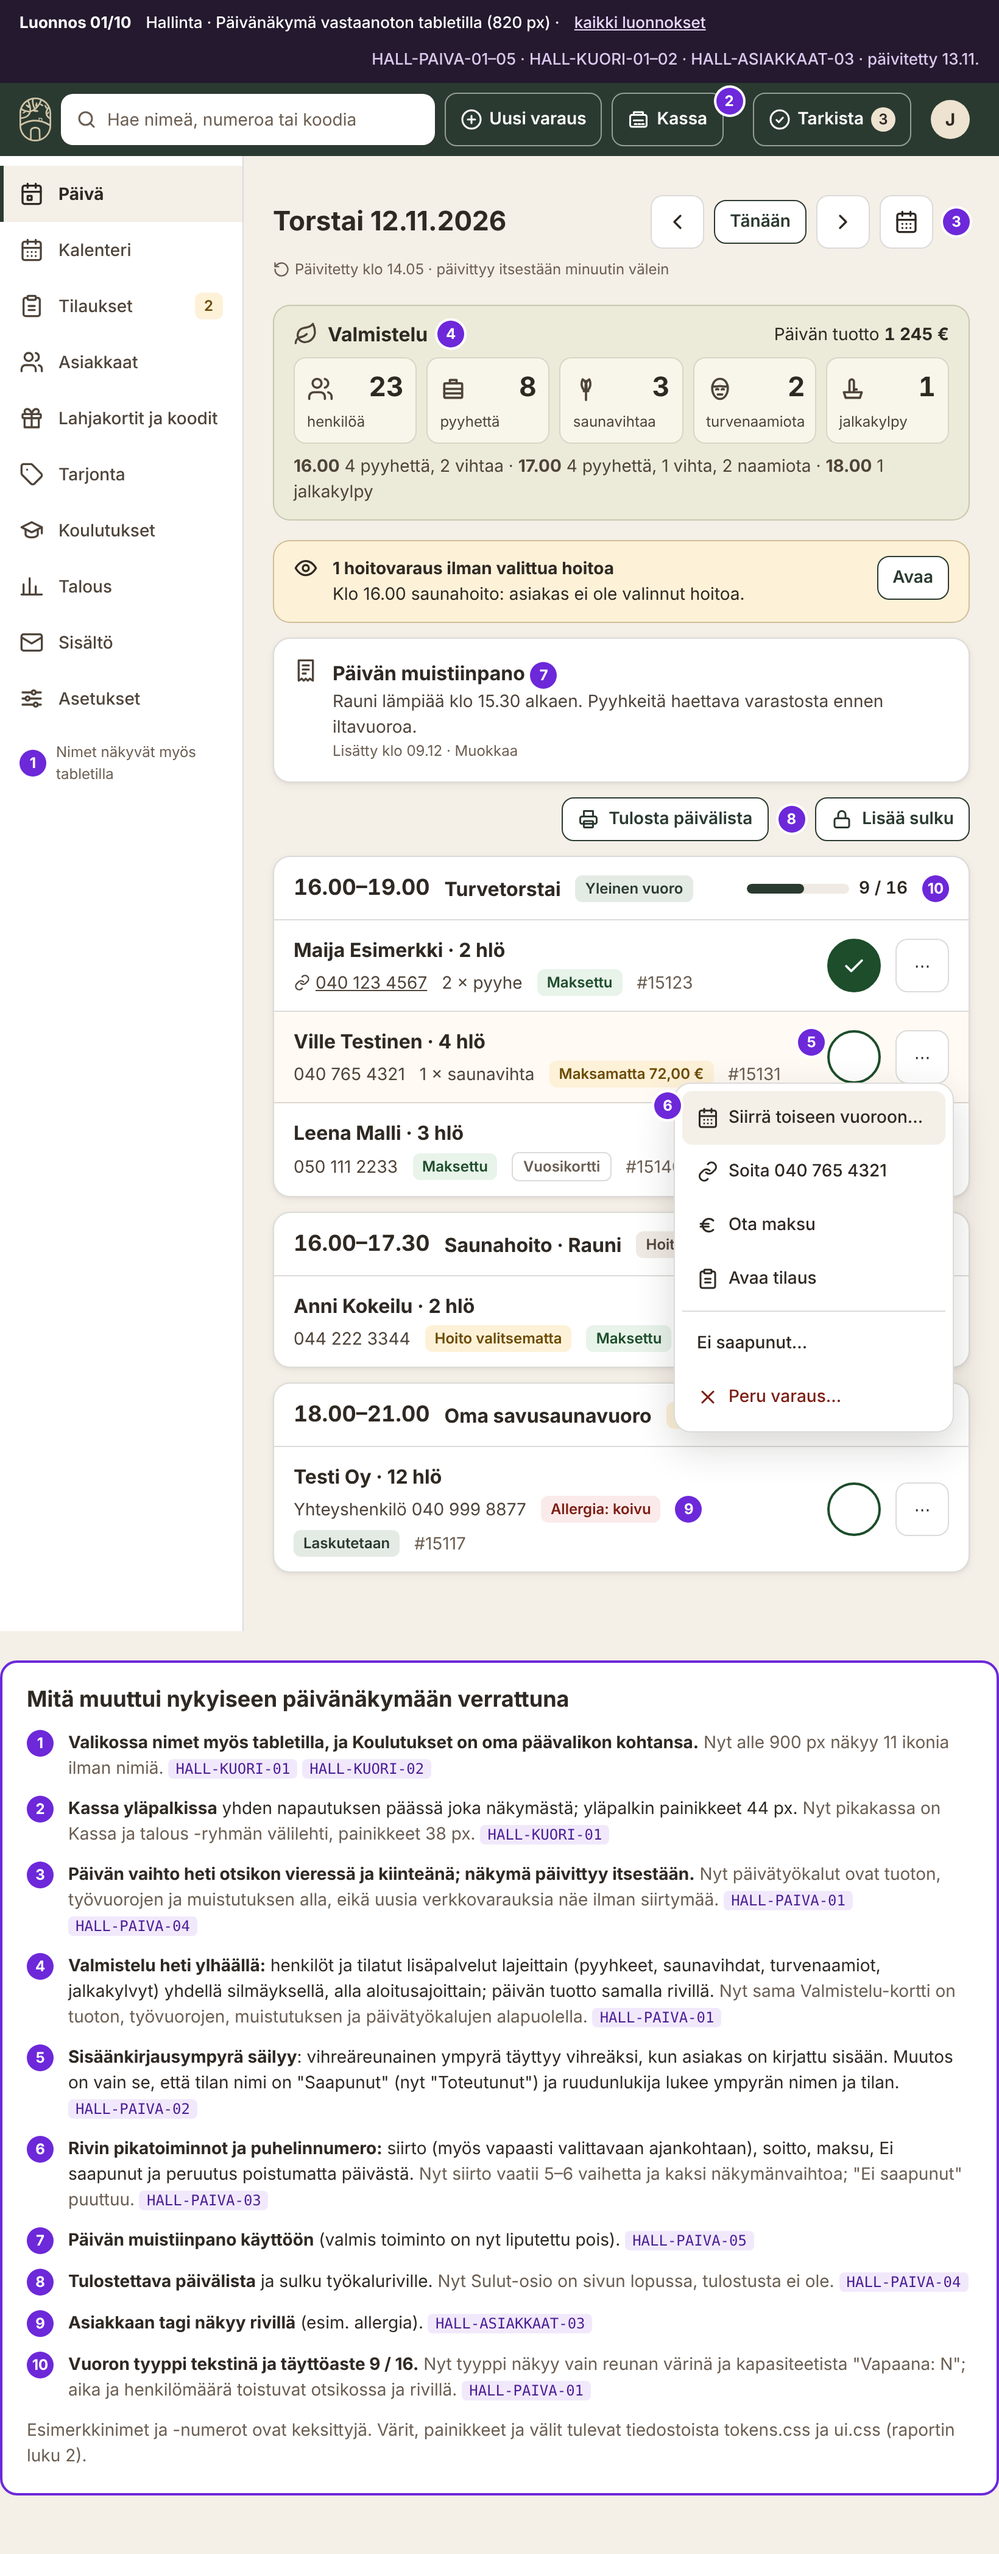
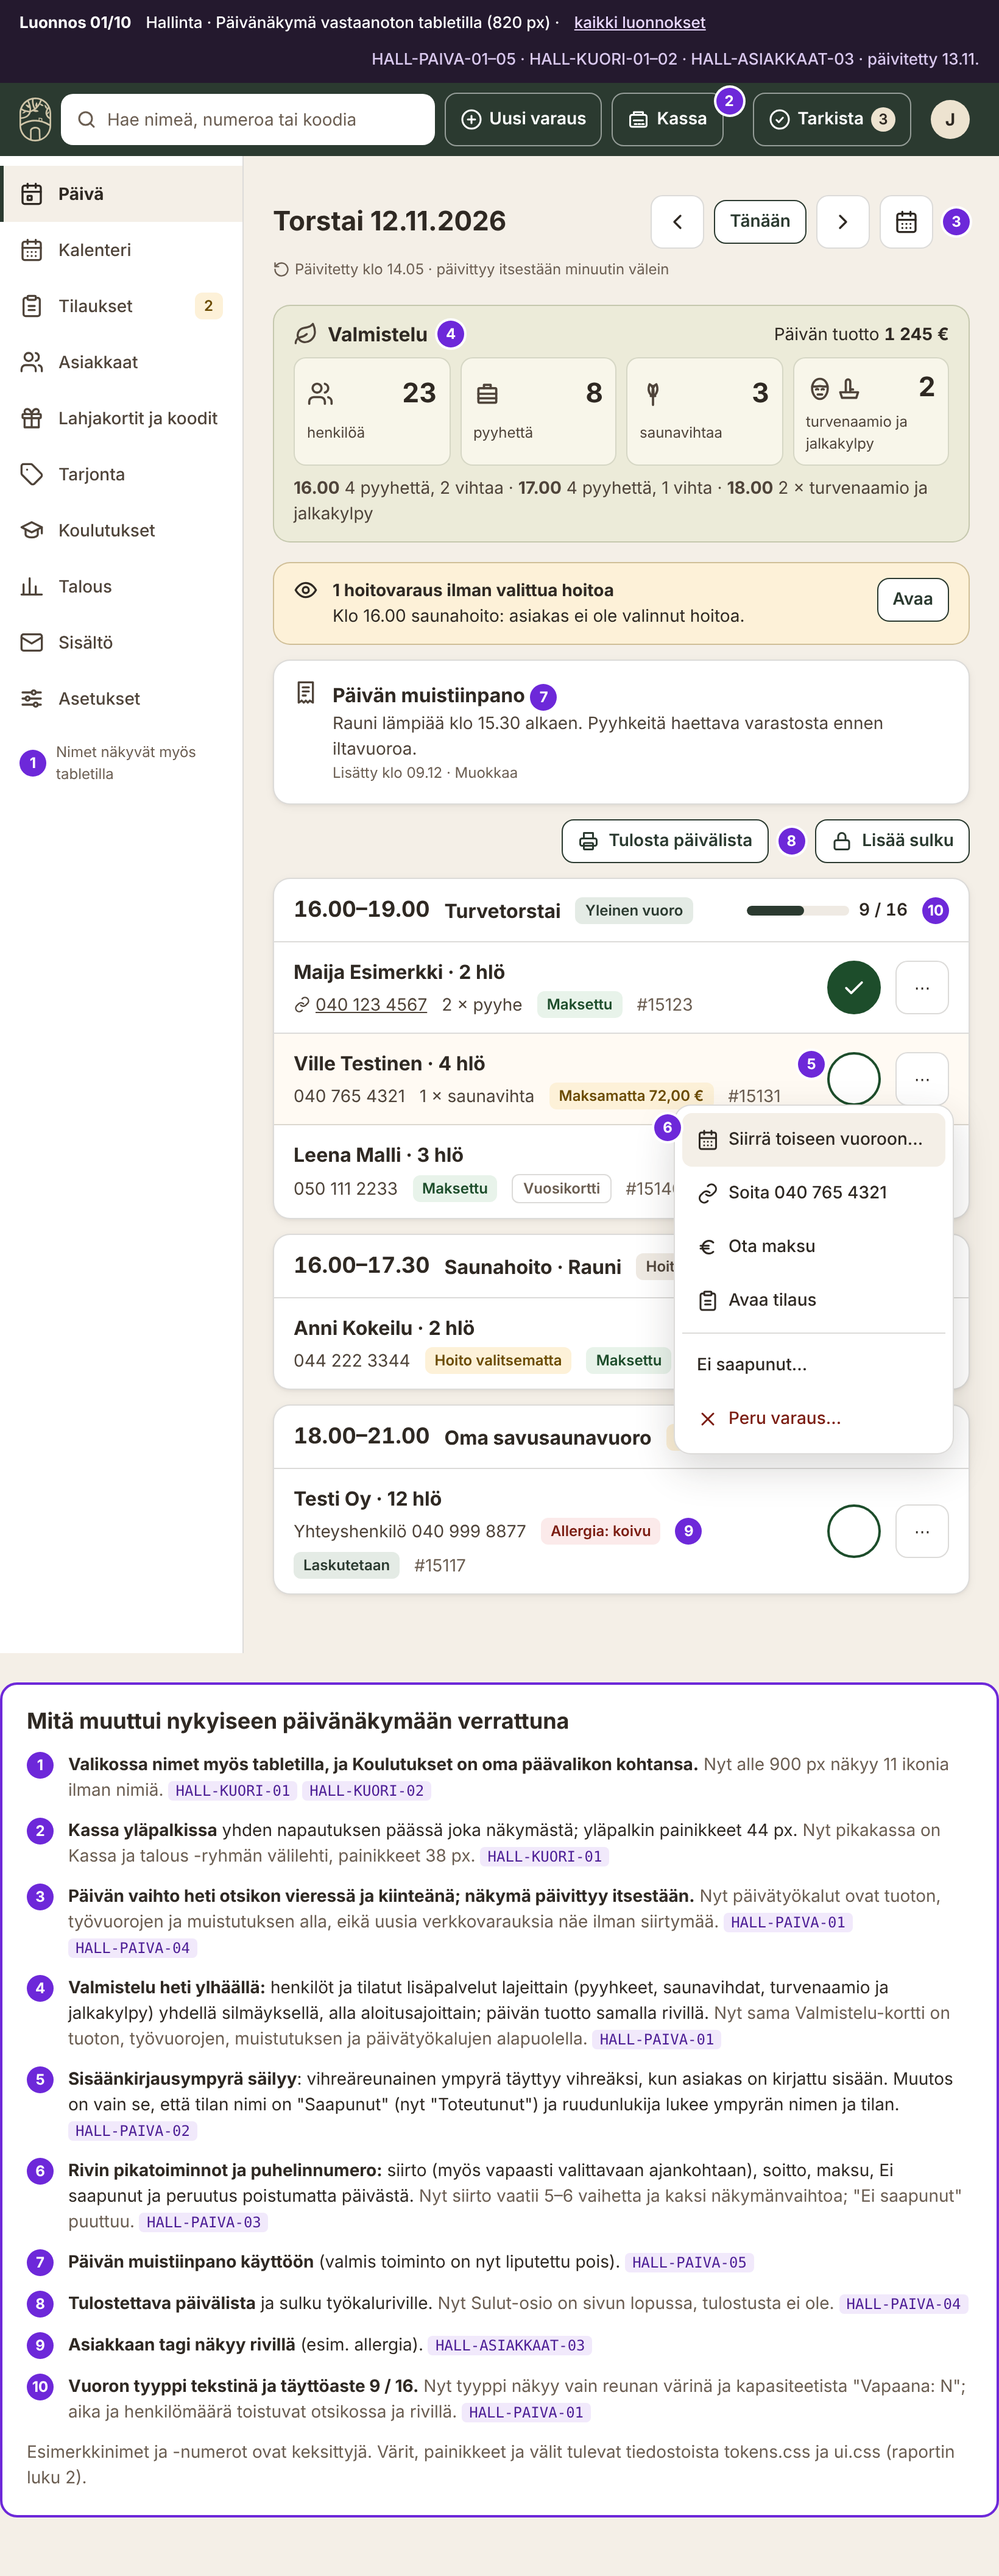
docs: turvenaamio ja jalkakylpy yhtenä lisäpalveluna päivänäkymän Valmistelussa
Claude-Session: https://claude.ai/code/session_01Vq7uZjugWxHeM1VBfmq7TK

diff --git a/docs/mockups/uudistus/01-hallinta-paiva.html b/docs/mockups/uudistus/01-hallinta-paiva.html
@@ -15,7 +15,7 @@
   .prep-head { display: flex; align-items: center; gap: var(--sp-2); margin-bottom: var(--sp-2); }
   .prep-head h2 { font-size: var(--fs-md); }
   .prep-head .rev { margin-left: auto; font-size: var(--fs-sm); color: var(--c-ink); }
-  .tiles { display: grid; grid-template-columns: repeat(5, minmax(0, 1fr)); gap: var(--sp-2); }
+  .tiles { display: grid; grid-template-columns: repeat(4, minmax(0, 1fr)); gap: var(--sp-2); }
   .tile { display: grid; gap: 2px; padding: 8px 10px; border-radius: var(--r-md); background: #F8F6EA; border: 1px solid rgba(79,97,48,.2); color: var(--c-ink); }
   .tile .top { display: flex; align-items: center; justify-content: space-between; }
   .tile b { font-size: var(--fs-xl); }
@@ -83,10 +83,9 @@
         <div class="tile"><div class="top"><span data-icon="users" data-size="22"></span><b class="num">23</b></div><span>henkilöä</span></div>
         <div class="tile"><div class="top"><span data-icon="towel" data-size="22"></span><b class="num">8</b></div><span>pyyhettä</span></div>
         <div class="tile"><div class="top"><span data-icon="whisk" data-size="22"></span><b class="num">3</b></div><span>saunavihtaa</span></div>
-        <div class="tile"><div class="top"><span data-icon="mask" data-size="22"></span><b class="num">2</b></div><span>turvenaamiota</span></div>
-        <div class="tile"><div class="top"><span data-icon="foot" data-size="22"></span><b class="num">1</b></div><span>jalkakylpy</span></div>
+        <div class="tile"><div class="top"><span class="row" style="gap:2px"><span data-icon="mask" data-size="22"></span><span data-icon="foot" data-size="22"></span></span><b class="num">2</b></div><span>turvenaamio ja jalkakylpy</span></div>
       </div>
-      <p class="prep-rows"><b>16.00</b> 4 pyyhettä, 2 vihtaa · <b>17.00</b> 4 pyyhettä, 1 vihta, 2 naamiota · <b>18.00</b> 1 jalkakylpy</p>
+      <p class="prep-rows"><b>16.00</b> 4 pyyhettä, 2 vihtaa · <b>17.00</b> 4 pyyhettä, 1 vihta · <b>18.00</b> 2 × turvenaamio ja jalkakylpy</p>
     </section>
 
     <div class="stack">
@@ -190,7 +189,7 @@
     <li><span class="pin">1</span><div><b>Valikossa nimet myös tabletilla, ja Koulutukset on oma päävalikon kohtansa.</b> <span class="before">Nyt alle 900 px näkyy 11 ikonia ilman nimiä.</span> <code>HALL-KUORI-01</code> <code>HALL-KUORI-02</code></div></li>
     <li><span class="pin">2</span><div><b>Kassa yläpalkissa</b> yhden napautuksen päässä joka näkymästä; yläpalkin painikkeet 44 px. <span class="before">Nyt pikakassa on Kassa ja talous -ryhmän välilehti, painikkeet 38 px.</span> <code>HALL-KUORI-01</code></div></li>
     <li><span class="pin">3</span><div><b>Päivän vaihto heti otsikon vieressä ja kiinteänä; näkymä päivittyy itsestään.</b> <span class="before">Nyt päivätyökalut ovat tuoton, työvuorojen ja muistutuksen alla, eikä uusia verkkovarauksia näe ilman siirtymää.</span> <code>HALL-PAIVA-01</code> <code>HALL-PAIVA-04</code></div></li>
-    <li><span class="pin">4</span><div><b>Valmistelu heti ylhäällä:</b> henkilöt ja tilatut lisäpalvelut lajeittain (pyyhkeet, saunavihdat, turvenaamiot, jalkakylvyt) yhdellä silmäyksellä, alla aloitusajoittain; päivän tuotto samalla rivillä. <span class="before">Nyt sama Valmistelu-kortti on tuoton, työvuorojen, muistutuksen ja päivätyökalujen alapuolella.</span> <code>HALL-PAIVA-01</code></div></li>
+    <li><span class="pin">4</span><div><b>Valmistelu heti ylhäällä:</b> henkilöt ja tilatut lisäpalvelut lajeittain (pyyhkeet, saunavihdat, turvenaamio ja jalkakylpy) yhdellä silmäyksellä, alla aloitusajoittain; päivän tuotto samalla rivillä. <span class="before">Nyt sama Valmistelu-kortti on tuoton, työvuorojen, muistutuksen ja päivätyökalujen alapuolella.</span> <code>HALL-PAIVA-01</code></div></li>
     <li><span class="pin">5</span><div><b>Sisäänkirjausympyrä säilyy</b>: vihreäreunainen ympyrä täyttyy vihreäksi, kun asiakas on kirjattu sisään. Muutos on vain se, että tilan nimi on "Saapunut" (nyt "Toteutunut") ja ruudunlukija lukee ympyrän nimen ja tilan. <code>HALL-PAIVA-02</code></div></li>
     <li><span class="pin">6</span><div><b>Rivin pikatoiminnot ja puhelinnumero:</b> siirto (myös vapaasti valittavaan ajankohtaan), soitto, maksu, Ei saapunut ja peruutus poistumatta päivästä. <span class="before">Nyt siirto vaatii 5–6 vaihetta ja kaksi näkymänvaihtoa; "Ei saapunut" puuttuu.</span> <code>HALL-PAIVA-03</code></div></li>
     <li><span class="pin">7</span><div><b>Päivän muistiinpano käyttöön</b> (valmis toiminto on nyt liputettu pois). <code>HALL-PAIVA-05</code></div></li>
